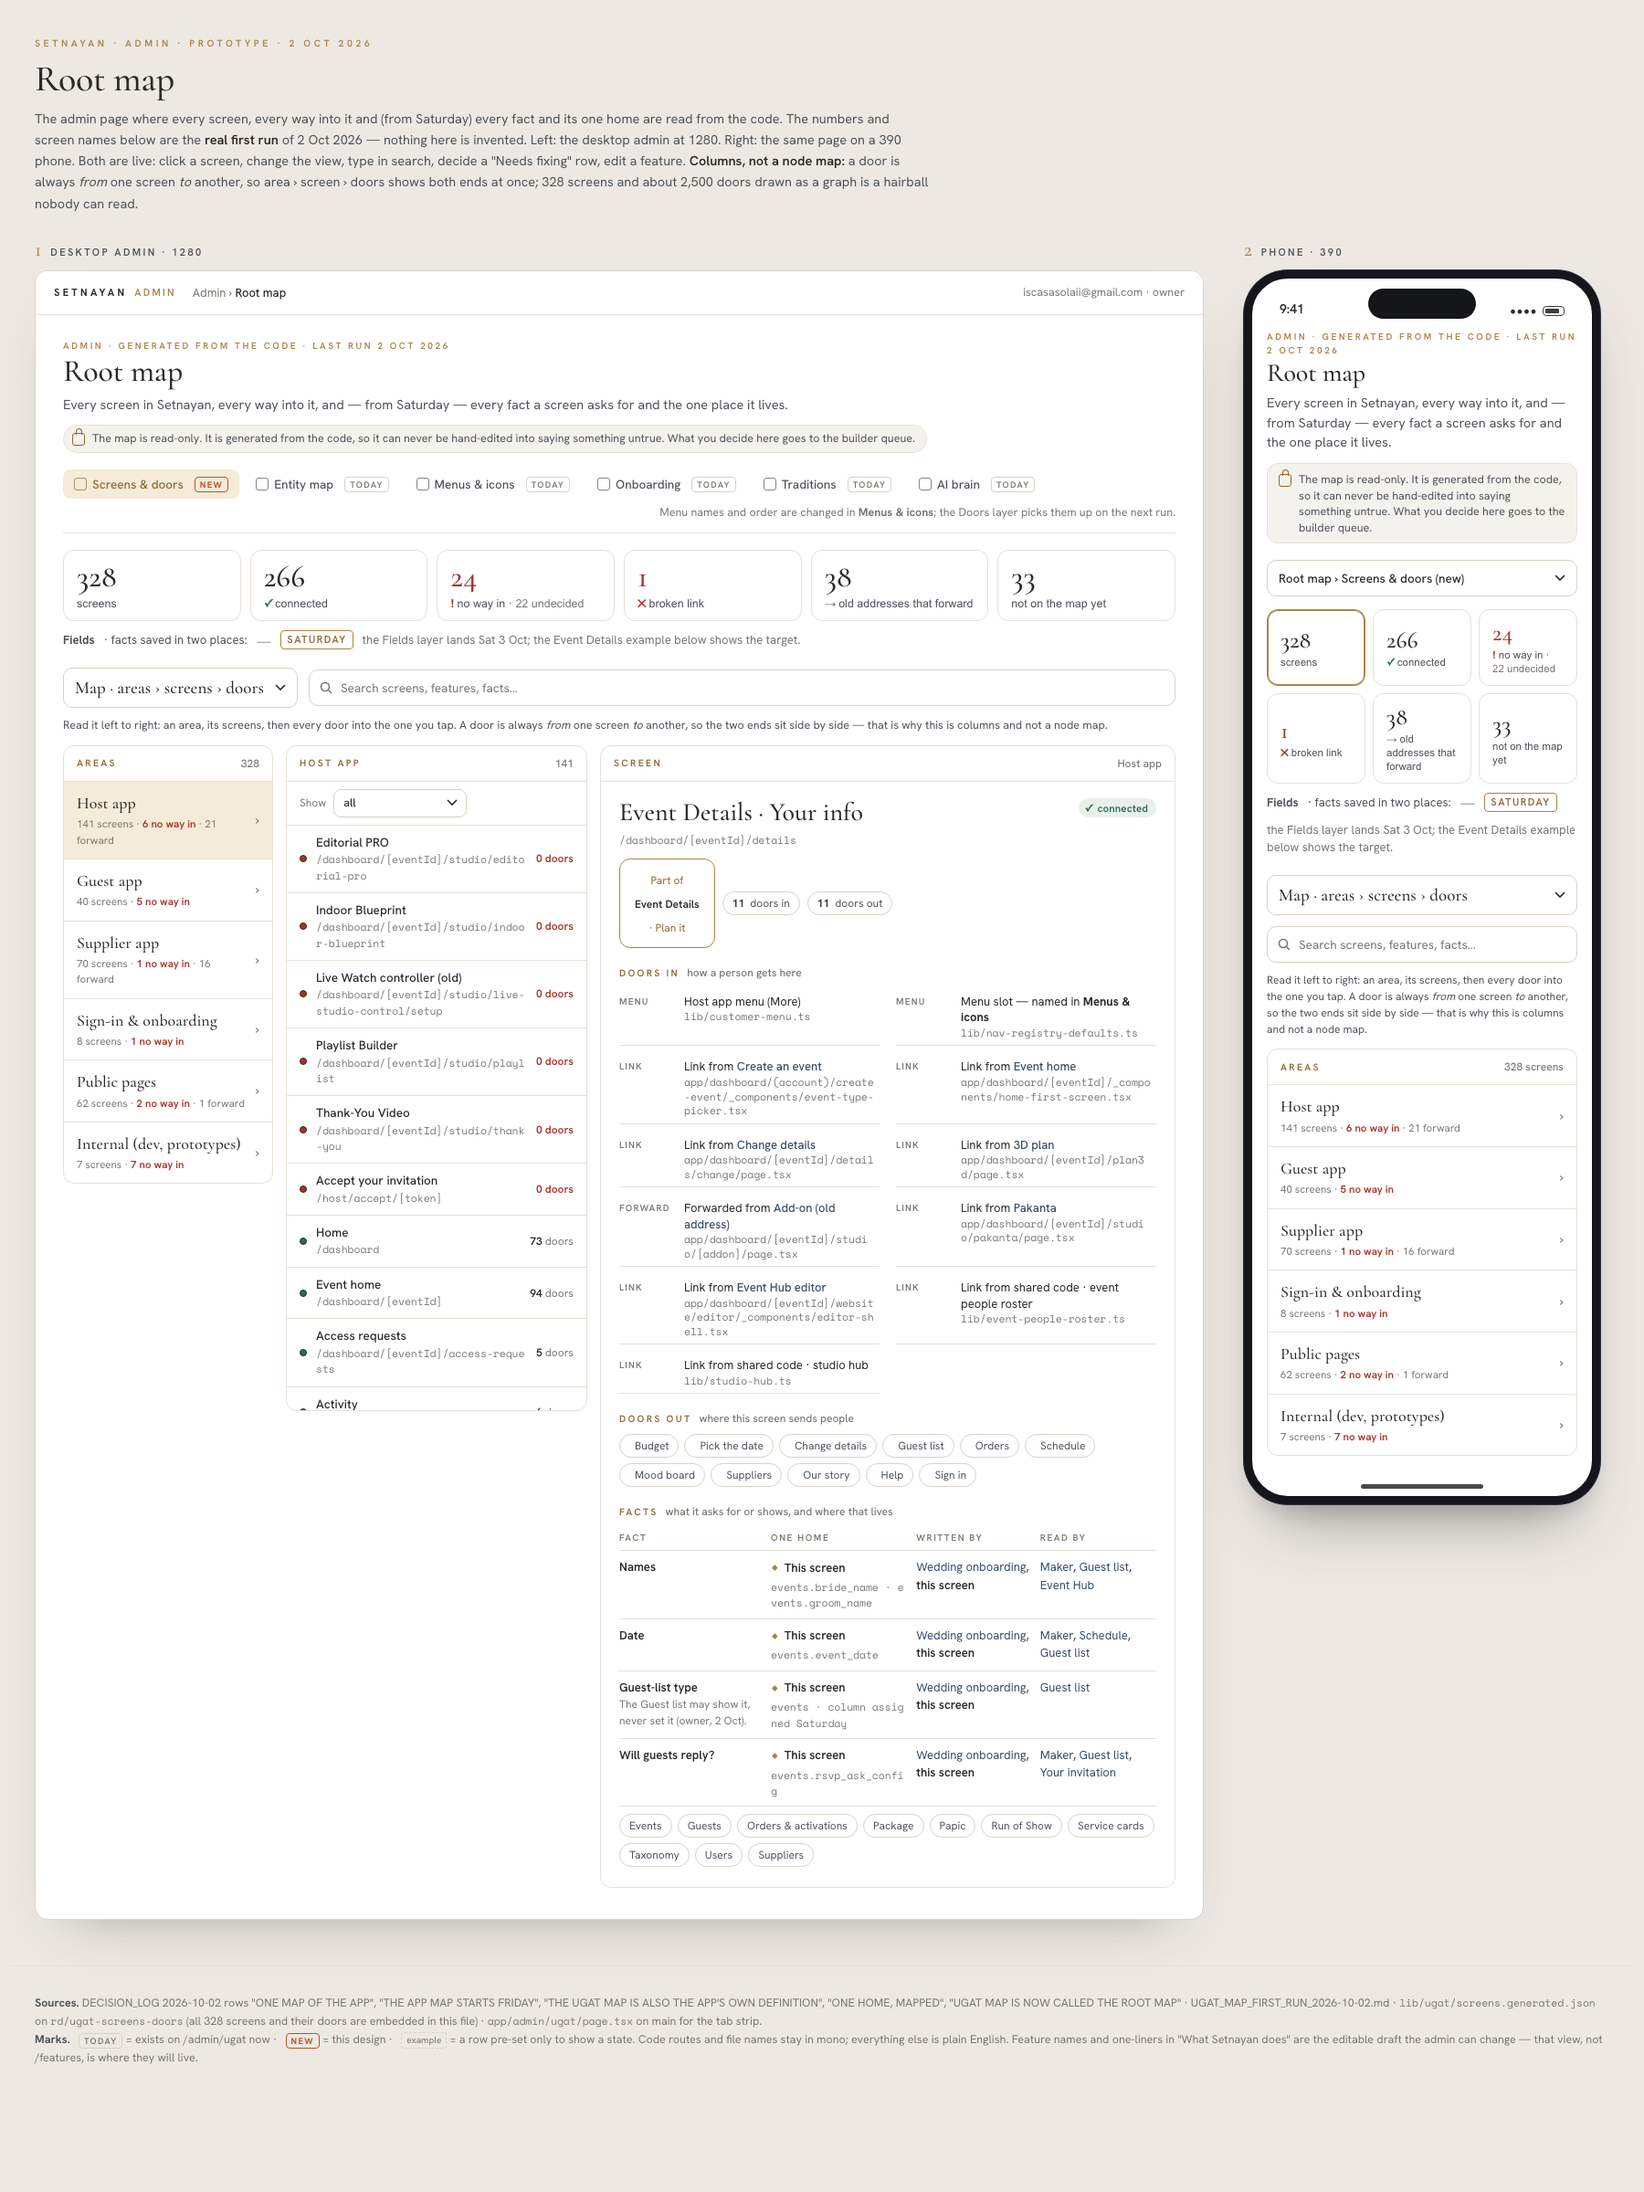
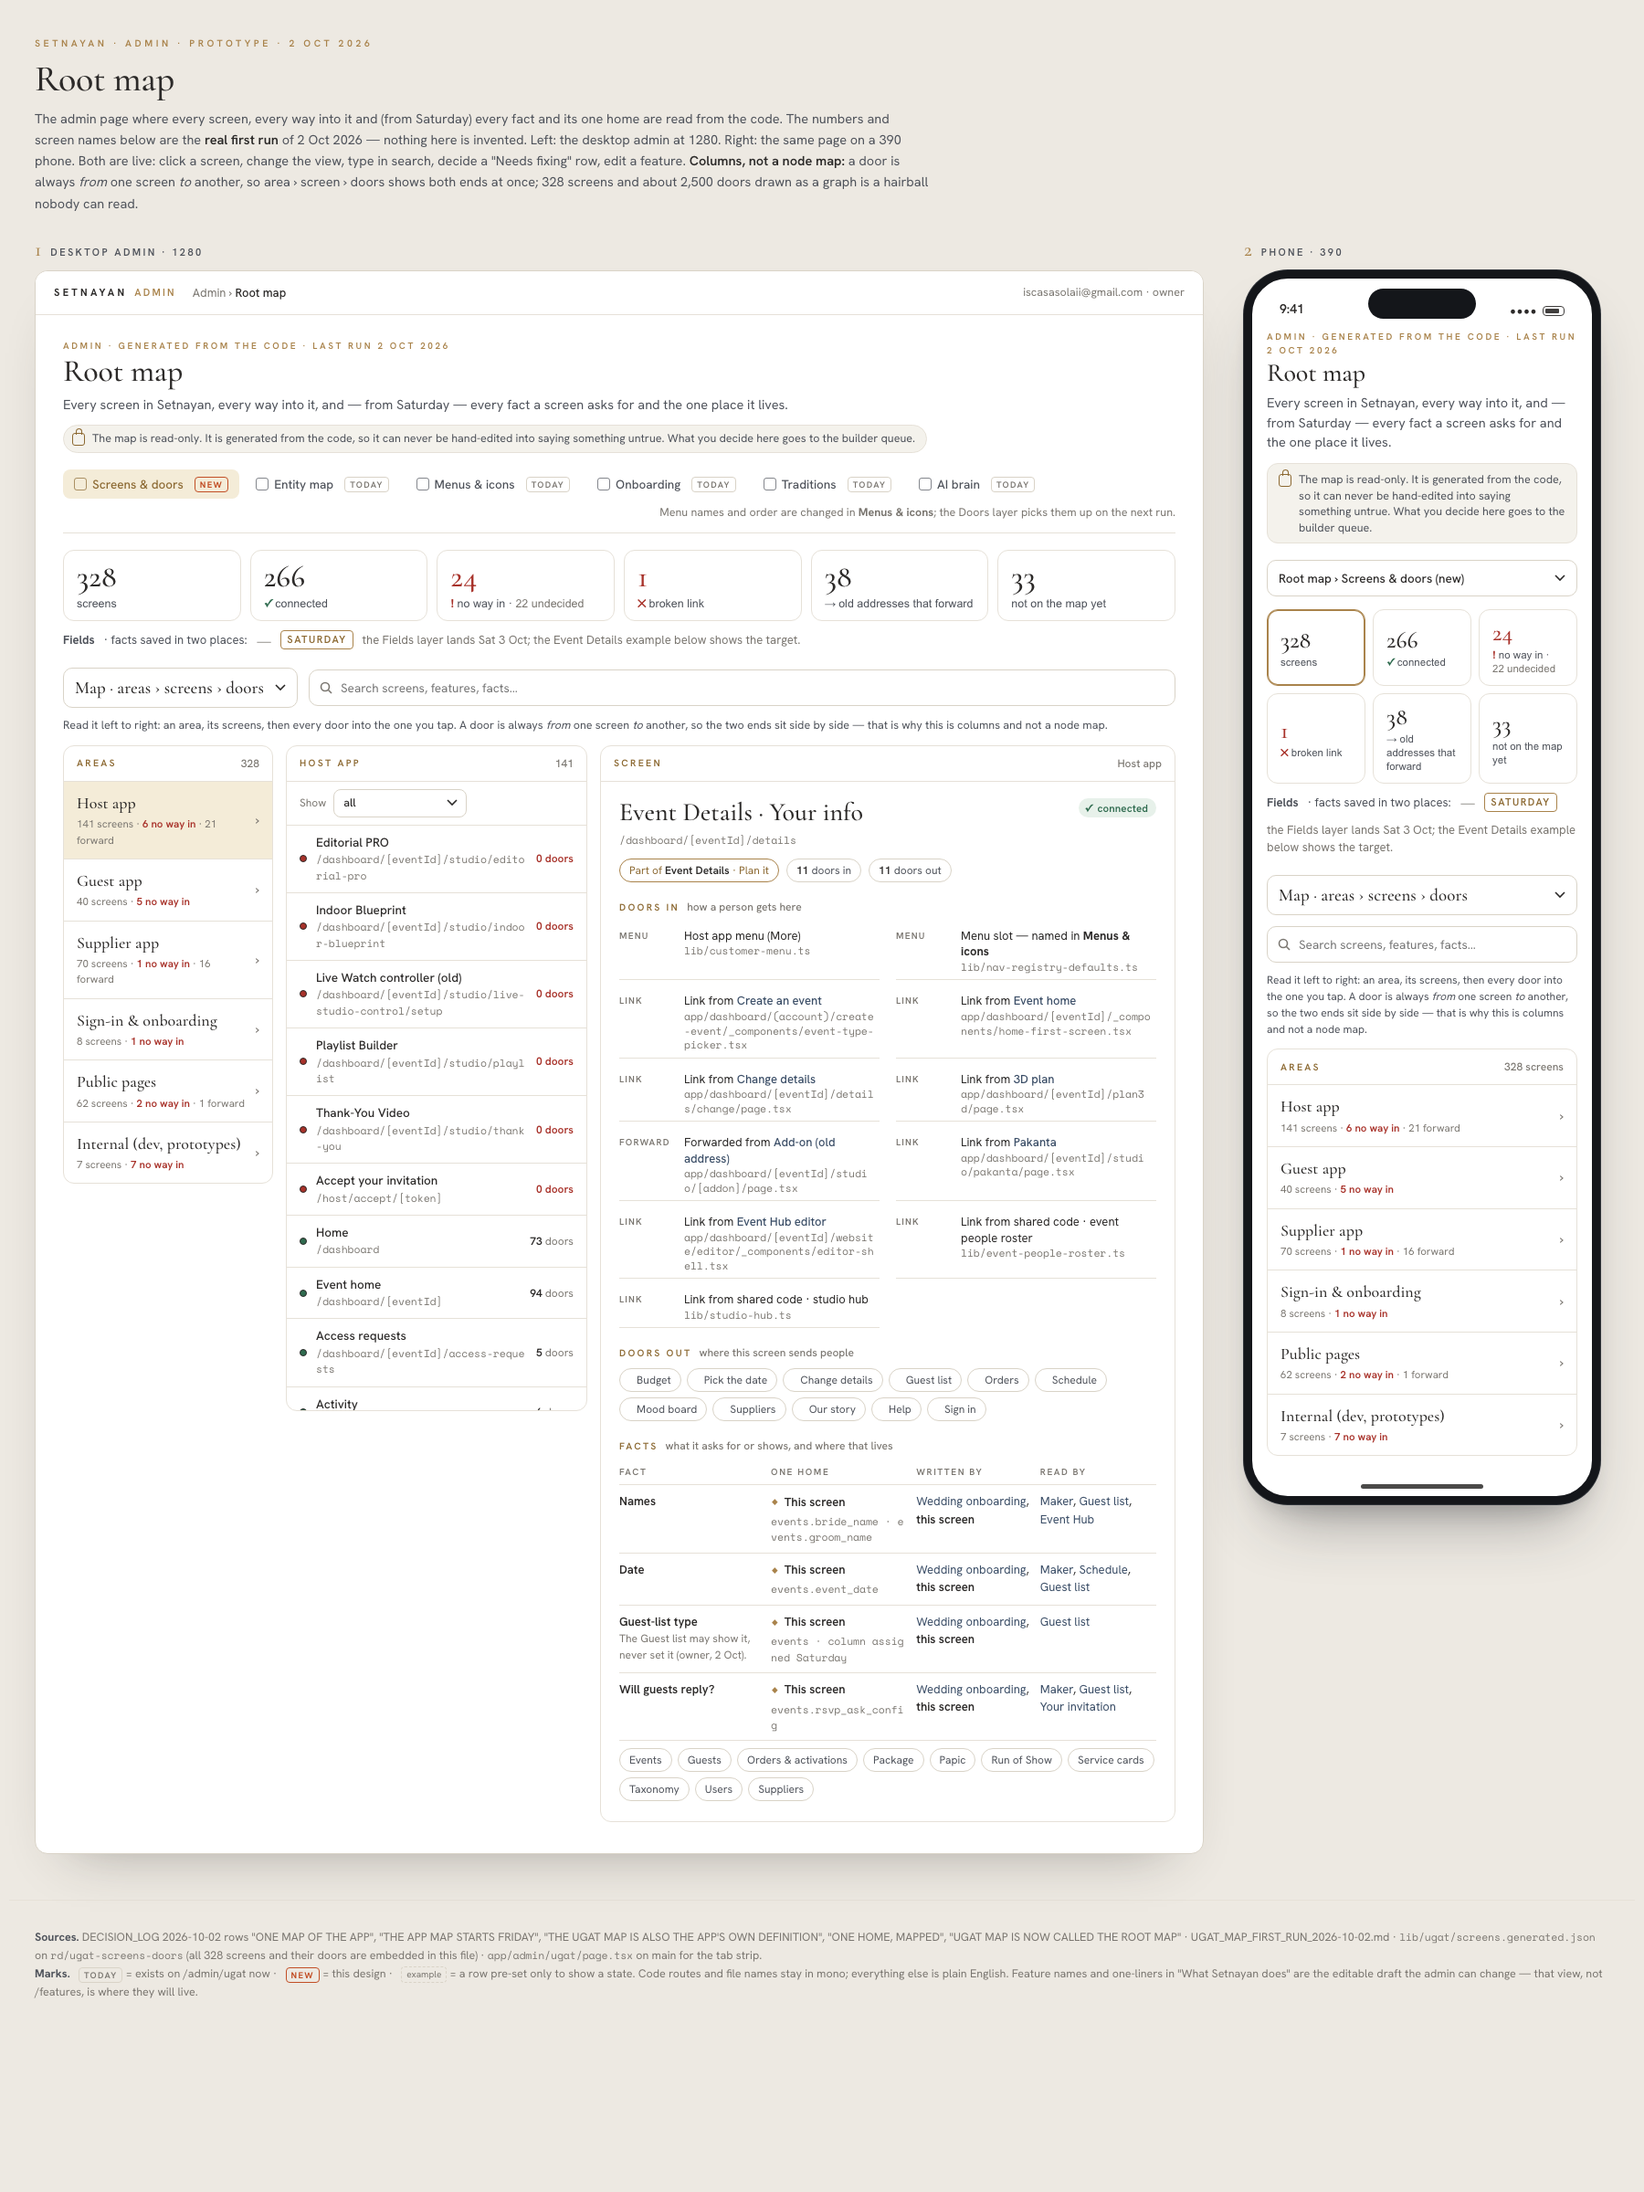
prototype: Root map — fix feature chip class collision, old-address names, facts column layout

Changed region(s): [[0.0, 0.375, 0.7467, 0.9375], [0.5911, 0.4375, 0.6844, 0.625]]

diff --git a/prototypes/root_map_2026-10-02_fable.html b/prototypes/root_map_2026-10-02_fable.html
@@ -154,9 +154,10 @@ code,.mono{font-family:var(--mono);font-size:11.5px;color:var(--mute);letter-spa
 .m-phone .detail h3{font-size:24px}
 .detail .route{margin:4px 0 0}
 .detail .meta{display:flex;gap:8px;flex-wrap:wrap;align-items:center;margin-top:10px}
-.chip{display:inline-flex;white-space:nowrap;align-items:center;gap:6px;font-size:12px;border:1px solid var(--line2);border-radius:999px;padding:3px 10px;color:var(--ink2);background:var(--white)}
-.chip b{color:var(--ink);font-weight:600}
-.chip.feat{border-color:var(--gold);color:var(--gold7)}
+.chip{display:inline-block;white-space:nowrap;font-size:12px;line-height:1.5;border:1px solid var(--line2);border-radius:999px;padding:3px 10px;color:var(--ink2);background:var(--white);vertical-align:middle}
+.chip .dot{display:inline-block;vertical-align:middle;margin:-2px 5px 0 0}
+.chip b{color:var(--ink);font-weight:600;display:inline}
+.chip.chip-feat{border-color:var(--gold);color:var(--gold7)}
 .chip.link{cursor:pointer}
 .chip.link:hover{border-color:var(--ink)}
 .sec{margin-top:18px}
@@ -578,7 +579,7 @@ function createApp(root, mode){
     const unm = !s.nodes.length;
     return `<h4>Screen <span>${esc(AREA[s.area].n)}</span></h4><div class="detail">
       <div class="top"><div><h3>${esc(nameOf(s.id))}</h3><div class="route"><code>${esc(s.id)}</code>${s.to?` <code>→ ${esc(s.to)}</code>`:''}</div></div>${badge(st)}</div>
-      <div class="meta">${fi!=null?`<span class="chip feat link" data-feat="${fi}">Part of <b>${esc(FEATURES[fi].n)}</b> · ${esc(FEATURES[fi].g)}</span>`:'<span class="chip">Not in any feature yet</span>'}<span class="chip"><b>${countIn}</b> ${countIn===1?'door':'doors'} in</span><span class="chip"><b>${outs.length}</b> ${outs.length===1?'door':'doors'} out</span>${unm?'<span class="chip">reads no mapped table</span>':''}</div>
+      <div class="meta">${fi!=null?`<span class="chip chip-feat link" data-feat="${fi}">Part of <b>${esc(FEATURES[fi].n)}</b> · ${esc(FEATURES[fi].g)}</span>`:'<span class="chip">Not in any feature yet</span>'}<span class="chip"><b>${countIn}</b> ${countIn===1?'door':'doors'} in</span><span class="chip"><b>${outs.length}</b> ${outs.length===1?'door':'doors'} out</span>${unm?'<span class="chip">reads no mapped table</span>':''}</div>
       ${fx||s.id===BROKEN.r?decideBlock(fx||BROKEN, st):''}
       <div class="sec"><h5>Doors in <span>how a person gets here</span></h5>
         ${countIn===0&&!grouped.nocount.length?`<p class="none">None. Only typing the address opens this page.</p>`:''}
@@ -614,7 +615,7 @@ function createApp(root, mode){
     const s=BY[fx.r]; const nm = isBroken? 'Supplier email → '+fx.r : nameOf(fx.r);
     const opts = isBroken ? [['fix','Point the link at Notifications'],['remove','Remove the link'],['leave','Leave for now']] : [['add','Add a way in'],['outside','Reached from outside on purpose (QR / email / printed)'],['remove','Remove it'],['leave','Leave for now']];
     return `<div class="fx ${d.choice?'done':''}">
-      <div><div class="nm">${isBroken?badge('broken'):badge(d.choice==='outside'?'outside':'no-door')} <span ${isBroken?'':`data-go="${esc(fx.r)}" style="cursor:pointer"`}>${esc(nm)}</span>${s&&FEAT_OF[fx.r]!=null?`<span class="chip feat" style="font-size:11px">${esc(FEATURES[FEAT_OF[fx.r]].n)}</span>`:''}</div>
+      <div><div class="nm">${isBroken?badge('broken'):badge(d.choice==='outside'?'outside':'no-door')} <span ${isBroken?'':`data-go="${esc(fx.r)}" style="cursor:pointer"`}>${esc(nm)}</span>${s&&FEAT_OF[fx.r]!=null?`<span class="chip chip-feat" style="font-size:11px">${esc(FEATURES[FEAT_OF[fx.r]].n)}</span>`:''}</div>
         <code>${esc(fx.r)}${isBroken?' · written in '+esc(fx.from):''}</code>
         <p class="say">${esc(fx.say)}</p>
         <p class="sug"><span class="arrow">→</span>Suggested: <b>${esc(SUG[fx.sug])}</b>${fx.where?' — in <b>'+esc(fx.where)+'</b>':''}${fx.via?' — via '+esc(fx.via):''}${fx.target?' — <code>'+esc(fx.target)+'</code>':''}</p></div>
